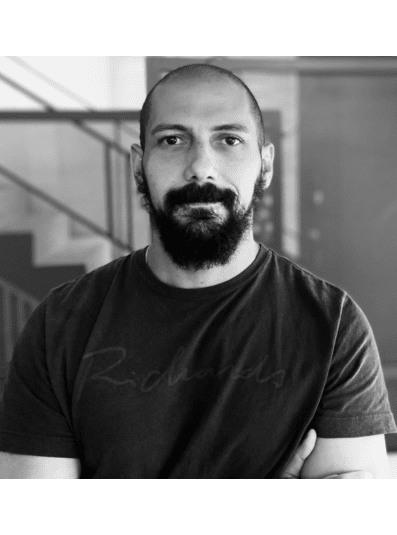
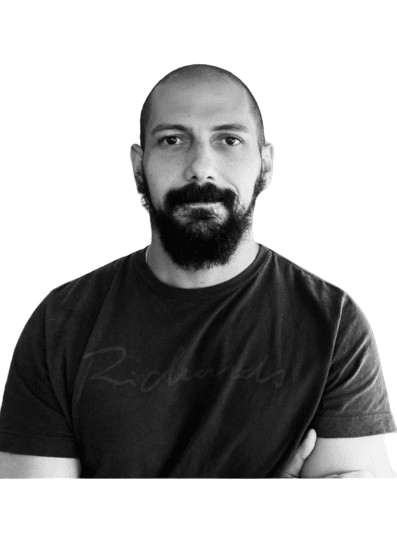
Updating...

Changed region(s): [[0.0, 0.0897, 1.0, 0.8673], [0.0302, 0.0897, 0.0605, 0.1196]]

diff --git a/index.html b/index.html
@@ -135,7 +135,7 @@ if (!doNotTrack) {
 <div class="container">
   <div class="row">
     <div class='col-md-2'>
-      <img src="/img/avatar.jpg" alt="portrait" width="159" height="216" id="profile-pic" style="vertical-align: middle; margin: 24px 24px 24px 0">
+      <img src="/img/avatar.png" alt="portrait" width="159" height="216" id="profile-pic" style="vertical-align: middle; margin: 24px 24px 24px 0">
     </div>
     <div class='col-md-10'>
       <div class="row">
